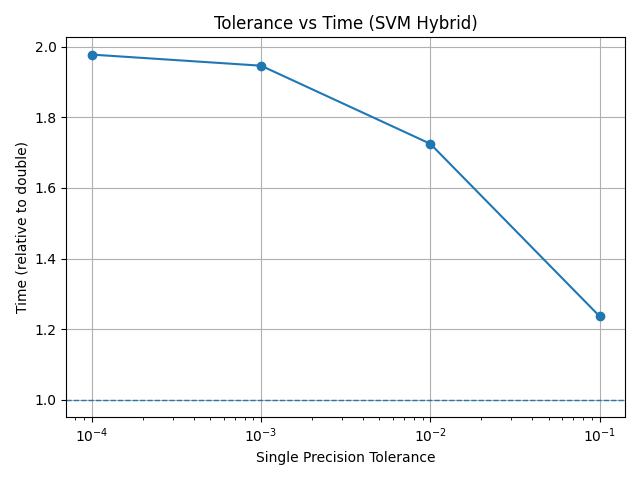
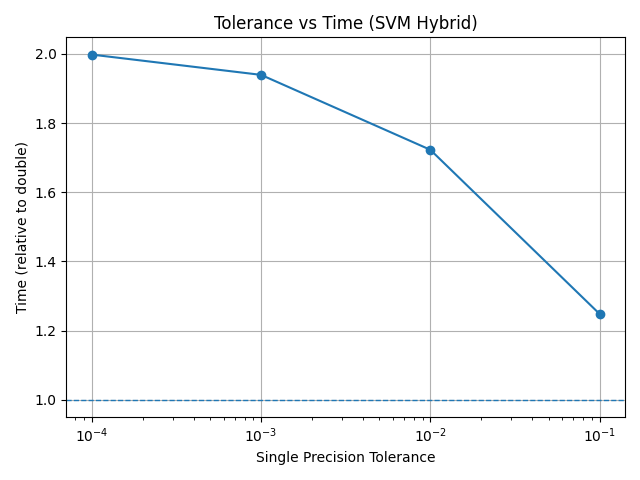
push test

diff --git a/SVM_main.py b/SVM_main.py
@@ -26,10 +26,10 @@ def print_summary(path, group_by):
 def run_experiments():
     results_A, results_B  = [], [] 
     config = {
-        "n_repeats": 1,
+        "n_repeats": 3,
 
-        "tol_fixed_A": 1e-16,
-        "caps": [0, 50, 100, 150, 200, 250, 300],
+        "tol_fixed_A": 1e-8,
+        "caps": [0, 1, 5 , 10, 25, 50, 100],
 
         "tol_double_B": 1e-5,
         "tolerances": [1e-1, 1e-2, 1e-3, 1e-4],
